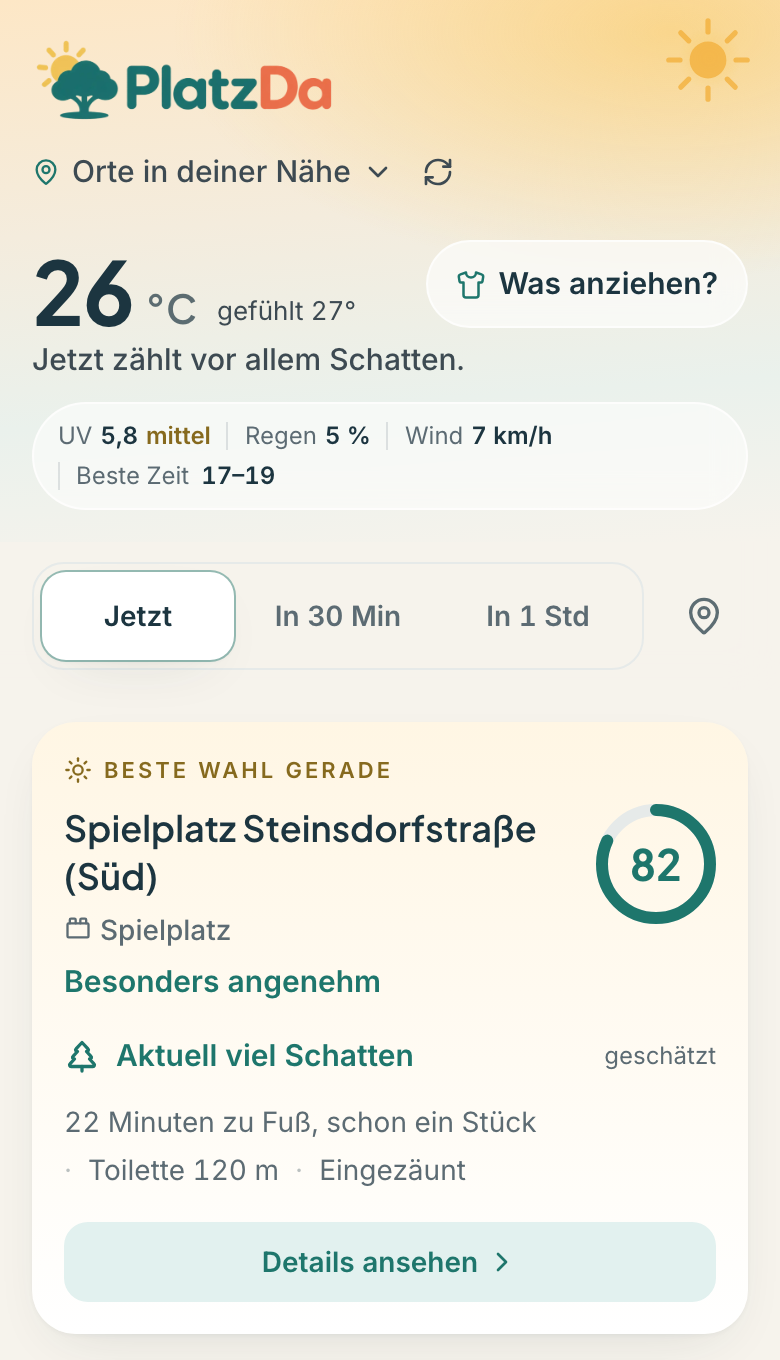
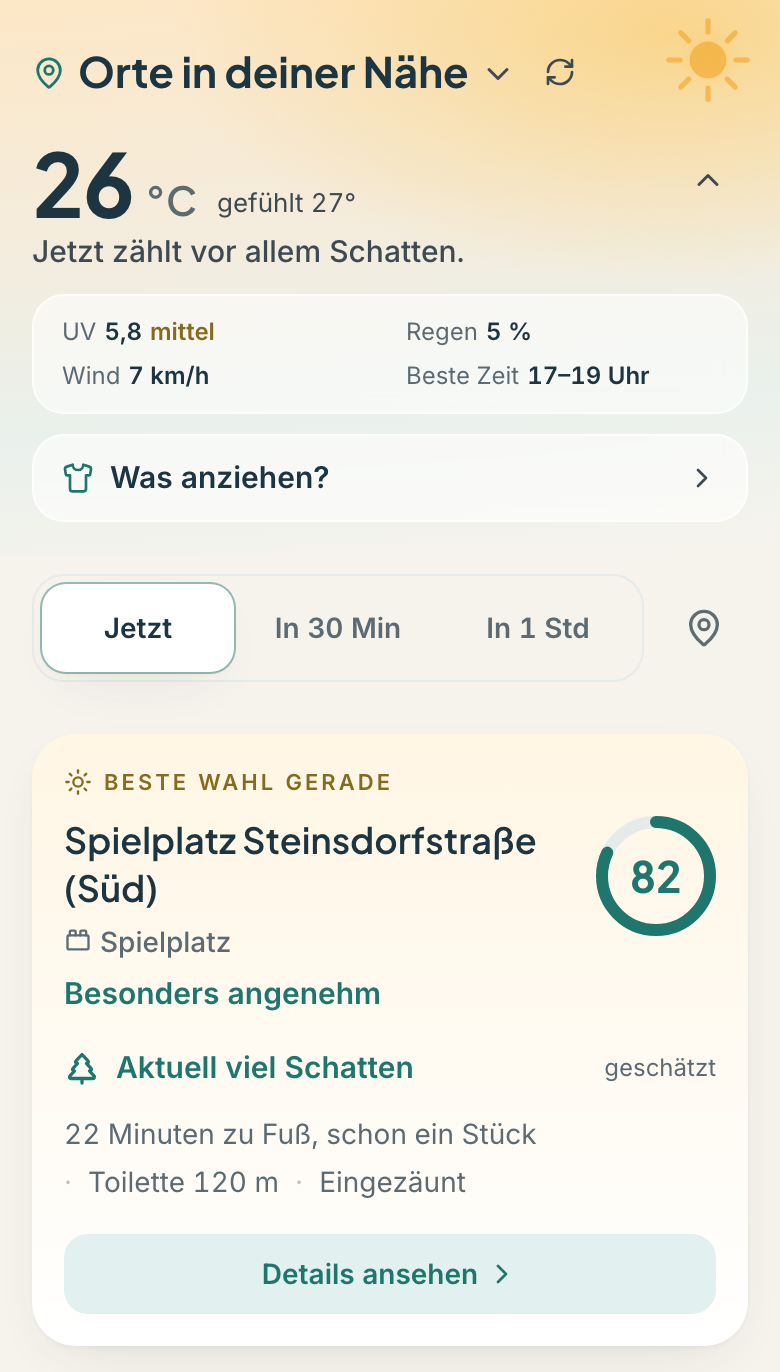
Landing-Hero zeigt den Titel-Kopf
Die App-Vorschau auf der Landing war wieder eine Iteration alt (Logo-
Kopf); frisch geschossen mit Titel-Kopf, Raster und Anziehen-Zeile.

diff --git a/components/landing/Landing.tsx b/components/landing/Landing.tsx
@@ -67,7 +67,7 @@ export function Landing() {
                   src="/app-vorschau.png"
                   alt="Die PlatzDa-App zeigt die beste Wahl gerade: Spielplatz mit viel Schatten, bewertet mit 82 von 100"
                   width={780}
-                  height={1360}
+                  height={1372}
                   className="w-full"
                 />
               </div>
